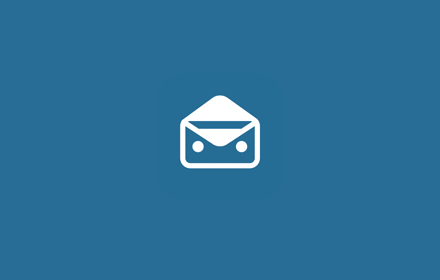
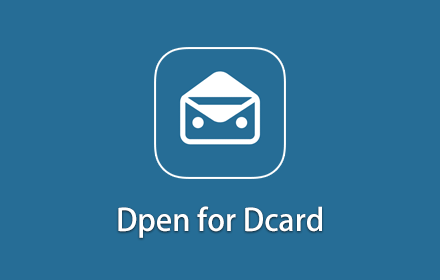
version 0.1.5 -Removed WooTrans link -Fixed a bug that dcard wont be fully filled when some fields are null -Replaced alert with console.error -Updates unread count when dcard filled -Added promotion images

diff --git a/Dpen/background.js b/Dpen/background.js
@@ -116,6 +116,10 @@ function startRequest(params) {
   // Schedule request immediately. We want to be sure to reschedule, even in the
   // case where the extension process shuts down while this request is
   // outstanding.
+
+  console.log("startRequest");
+  console.log(params);
+
   if (params && params.scheduleRequest) scheduleRequest();
 
   function stopLoadingAnimation() {
@@ -252,7 +256,14 @@ function onInit() {
     // for a little while just to be sure the refresh alarm is working nicely.
     chrome.alarms.create('watchdog', {periodInMinutes:5});
   }
-}
+
+  chrome.extension.onMessage.addListener( function(request,sender,sendResponse) {
+    console.log("background received message: " + request.greeting);
+    if( request.greeting === "updateUnreadCount" ) {
+      startRequest({scheduleRequest:false, showLoadingAnimation:false});
+      sendResponse({});
+    }});
+  }
 
 function onAlarm(alarm) {
   console.log('Got alarm', alarm);
@@ -293,7 +304,7 @@ var filters = {
 
 function onNavigate(details) {
   if (details.url && isDcardUrl(details.url)) {
-    console.log('Recognized Gmail navigation to: ' + details.url + '.' +
+    console.log('Recognized Dcard navigation to: ' + details.url + '.' +
                 'Refreshing count...');
     startRequest({scheduleRequest:false, showLoadingAnimation:false});
   }

diff --git a/Dpen/popup.js b/Dpen/popup.js
@@ -22,7 +22,7 @@ function sendInvitation(first) {
 			//success
 			window.location.reload()
 		} else {
-			alert(error)
+			console.error(error)
 		}
 	})
 }
@@ -58,7 +58,7 @@ function show(element) {
 }
 
 function replaceLinebreak(str) {
-	return str.replace(/(?:\r\n|\r|\n)/g, '<br />')
+	return str ? str.replace(/(?:\r\n|\r|\n)/g, '<br />') : '';
 }
 
 function showDcard() {
@@ -158,8 +158,15 @@ function showDcard() {
 			troubleTd.innerHTML = replaceLinebreak(result.dcard.trouble)
 			exchangeTd.innerHTML = replaceLinebreak(result.dcard.exchange)
 			wanttotryTd.innerHTML = replaceLinebreak(result.dcard.wanttotry)
+
+			//Tell background to update button icon
+			console.log('sending updateUnreadCount message..');
+			chrome.extension.sendMessage({greeting: "updateUnreadCount"}, function (response) {
+	            console.log(response);
+	        });
+
 		} else {
-			alert(error)
+			console.error(error)
 		}
 	})
 }
@@ -237,7 +244,7 @@ document.addEventListener('DOMContentLoaded', function() {
 				})
 			}
 		} else {
-			alert(error)
+			console.error(error)
 		}
 	});
 	

diff --git a/Dpen/popup.html b/Dpen/popup.html
@@ -19,7 +19,7 @@
         <div>
             <ul class="share-links">
                 <li><a id="link_share">分享</a></li>
-                <li><a id="link_wootrans">WooTrans</a></li>
+                <li class="hidden"><a id="link_wootrans">WooTrans</a></li>
             </ul>
         </div>
     </div>
